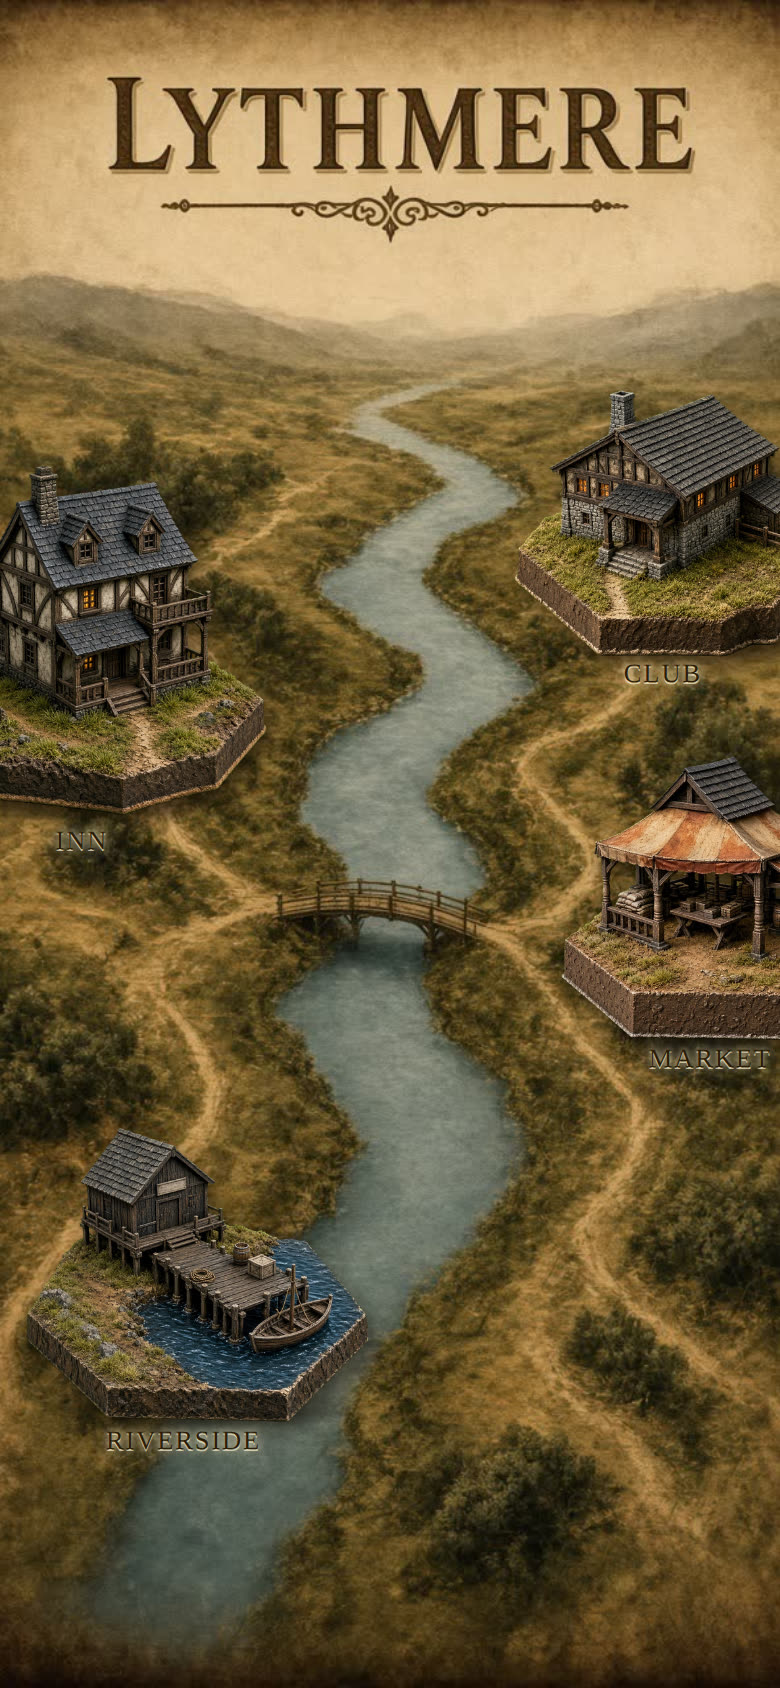
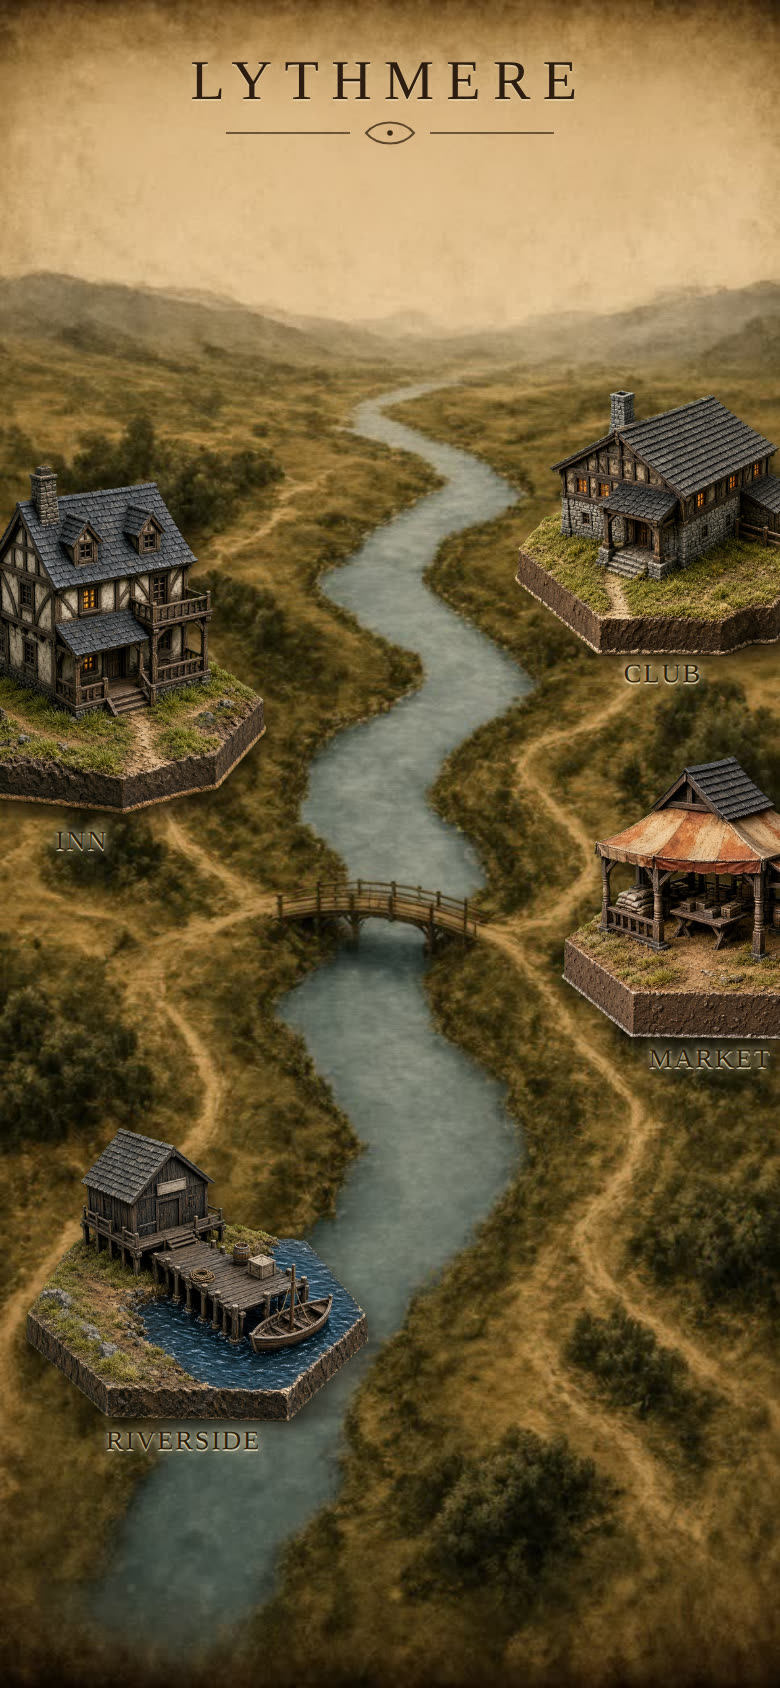
Drop the place-name strip on the map and sit LYTHMERE under the plaques.
The four landmark pieces are the navigation. Date and Journal stay.

diff --git a/mockups/lythmere-hex-pieces/index.html b/mockups/lythmere-hex-pieces/index.html
@@ -118,6 +118,25 @@
   .locationWell button{position:relative;min-width:0;height:100%;padding:8px 4px;color:#3d2b1a;border-right:1px solid rgba(90,62,38,.22);font:700 clamp(8px,2.4cqw,11px)/1.05 Georgia,serif;letter-spacing:.04em;text-transform:uppercase;text-shadow:0 1px 0 rgba(255,244,214,.7);pointer-events:auto}
   .locationWell button:last-child{border-right:0}
   .locationWell button.active{color:#1a120c;font-weight:800}
+  body.stripOff .locationStrip{display:none}
+
+  /* Town name sits in the gap under the date/Journal plaques, not under them. */
+  .townName{
+    position:absolute;z-index:34;left:0;right:0;
+    top:calc(var(--hud-pad-t) + var(--hud-h) + 6px);
+    text-align:center;pointer-events:none;
+    color:#2c1d10;
+    text-shadow:0 1px 0 rgba(240,226,188,.55), 0 0 12px rgba(232,214,176,.45);
+  }
+  body.hudOff .townName{top:calc(var(--hud-pad-t) + 10px)}
+  .townName b{
+    display:block;
+    font:400 clamp(22px,7.2cqw,34px)/1.05 Palatino,"Palatino Linotype","Times New Roman",serif;
+    letter-spacing:.22em;
+  }
+  .townName .flourish{
+    display:block;width:min(48%,180px);height:18px;margin:2px auto 0;
+  }
   body.hudOff #hudLayer{display:none}
   body.chromeOff #spotToggle,
   body.chromeOff #spotListToggle,
@@ -156,7 +175,7 @@
   #spotReadout button.on{background:#241a13;color:#f2e1be}
 </style>
 </head>
-<body class="spotListOn">
+<body class="spotListOn stripOff">
 
 <section id="visualShell">
   <div class="townScene">
@@ -164,6 +183,15 @@
       <img class="mapArt" id="mapArt" src="./map-plain.jpg" alt="The Lythmere map">
       <div class="pieces lit" id="pieces"></div>
     </div>
+  </div>
+
+  <div class="townName" aria-hidden="true">
+      <b>LYTHMERE</b>
+    <svg class="flourish" viewBox="0 0 180 18" fill="none" aria-hidden="true">
+      <path d="M8 9h62M110 9h62" stroke="#3a2814" stroke-width="1" opacity=".7"/>
+      <path d="M78 9c6-7 18-7 24 0c-6 7-18 7-24 0z" stroke="#3a2814" stroke-width="1" fill="none" opacity=".8"/>
+      <circle cx="90" cy="9" r="1.4" fill="#3a2814"/>
+    </svg>
   </div>
 
   <div id="hudLayer" class="townHud">
@@ -291,7 +319,7 @@
   function paint(){
     readout.innerHTML =
       "<b>Place landmarks</b>" +
-      "<p class=\"spotHint\">Same as placing people: drag a piece, +/− size, Copy. Hex grid is off.</p>" +
+      "<p class=\"spotHint\">Tap a piece to go there. Date and Journal stay. The place-name strip is optional.</p>" +
       pieces.map(p => {
         const on = p.loc === selected ? " style=\"color:#7a1c18\"" : "";
         return `<div class="spotEnd" data-pick="${p.loc}"${on}><span>${p.loc}</span><code>${p.x.toFixed(0)} ${p.y.toFixed(0)} ${p.w.toFixed(1)}</code></div>`;
@@ -302,6 +330,7 @@
         <button type="button" id="spotCopy">Copy</button>
         <button type="button" id="spotReset">Reset</button>
         <button type="button" id="spotGrid" class="${gridOn?"on":""}">Hex</button>
+        <button type="button" id="spotStrip" class="${document.body.classList.contains("stripOff")?"":"on"}">Strip</button>
       </div>`;
   }
 
@@ -390,6 +419,11 @@
       save(); draw();
       return;
     }
+    if (e.target.id === "spotStrip"){
+      document.body.classList.toggle("stripOff");
+      paint();
+      return;
+    }
     if (e.target.id === "spotCopy"){
       const text = cssText();
       navigator.clipboard.writeText(text).then(() => {
@@ -425,6 +459,7 @@
   if (asked.get("pieces") === "0") document.body.classList.add("piecesOff");
   if (asked.get("grid") === "1") gridOn = true;
   if (asked.get("chrome") === "0") document.body.classList.add("chromeOff");
+  if (asked.get("strip") === "1") document.body.classList.remove("stripOff");
   draw();
 })();
 </script>

diff --git a/mockups/lythmere-hex-pieces/README.md b/mockups/lythmere-hex-pieces/README.md
@@ -25,7 +25,13 @@ Each was generated on lime `#00FF00` and keyed by `key_pieces.py`. They share
 one camera, one light, and a chunky hexagonal *base* so they still read as
 models you could pick up. The hex *grid* on the map is gone.
 
-## Maps
+## HUD
+
+Date and Journal stay at the top. **LYTHMERE** is an HTML title in the gap
+under those plaques, not painted under them.
+
+The bottom place-name strip is **off** on this screen. The four pieces are
+the navigation. Toggle **Strip** in the placer if you want it back.
 
 | File | Notes |
 | --- | --- |
